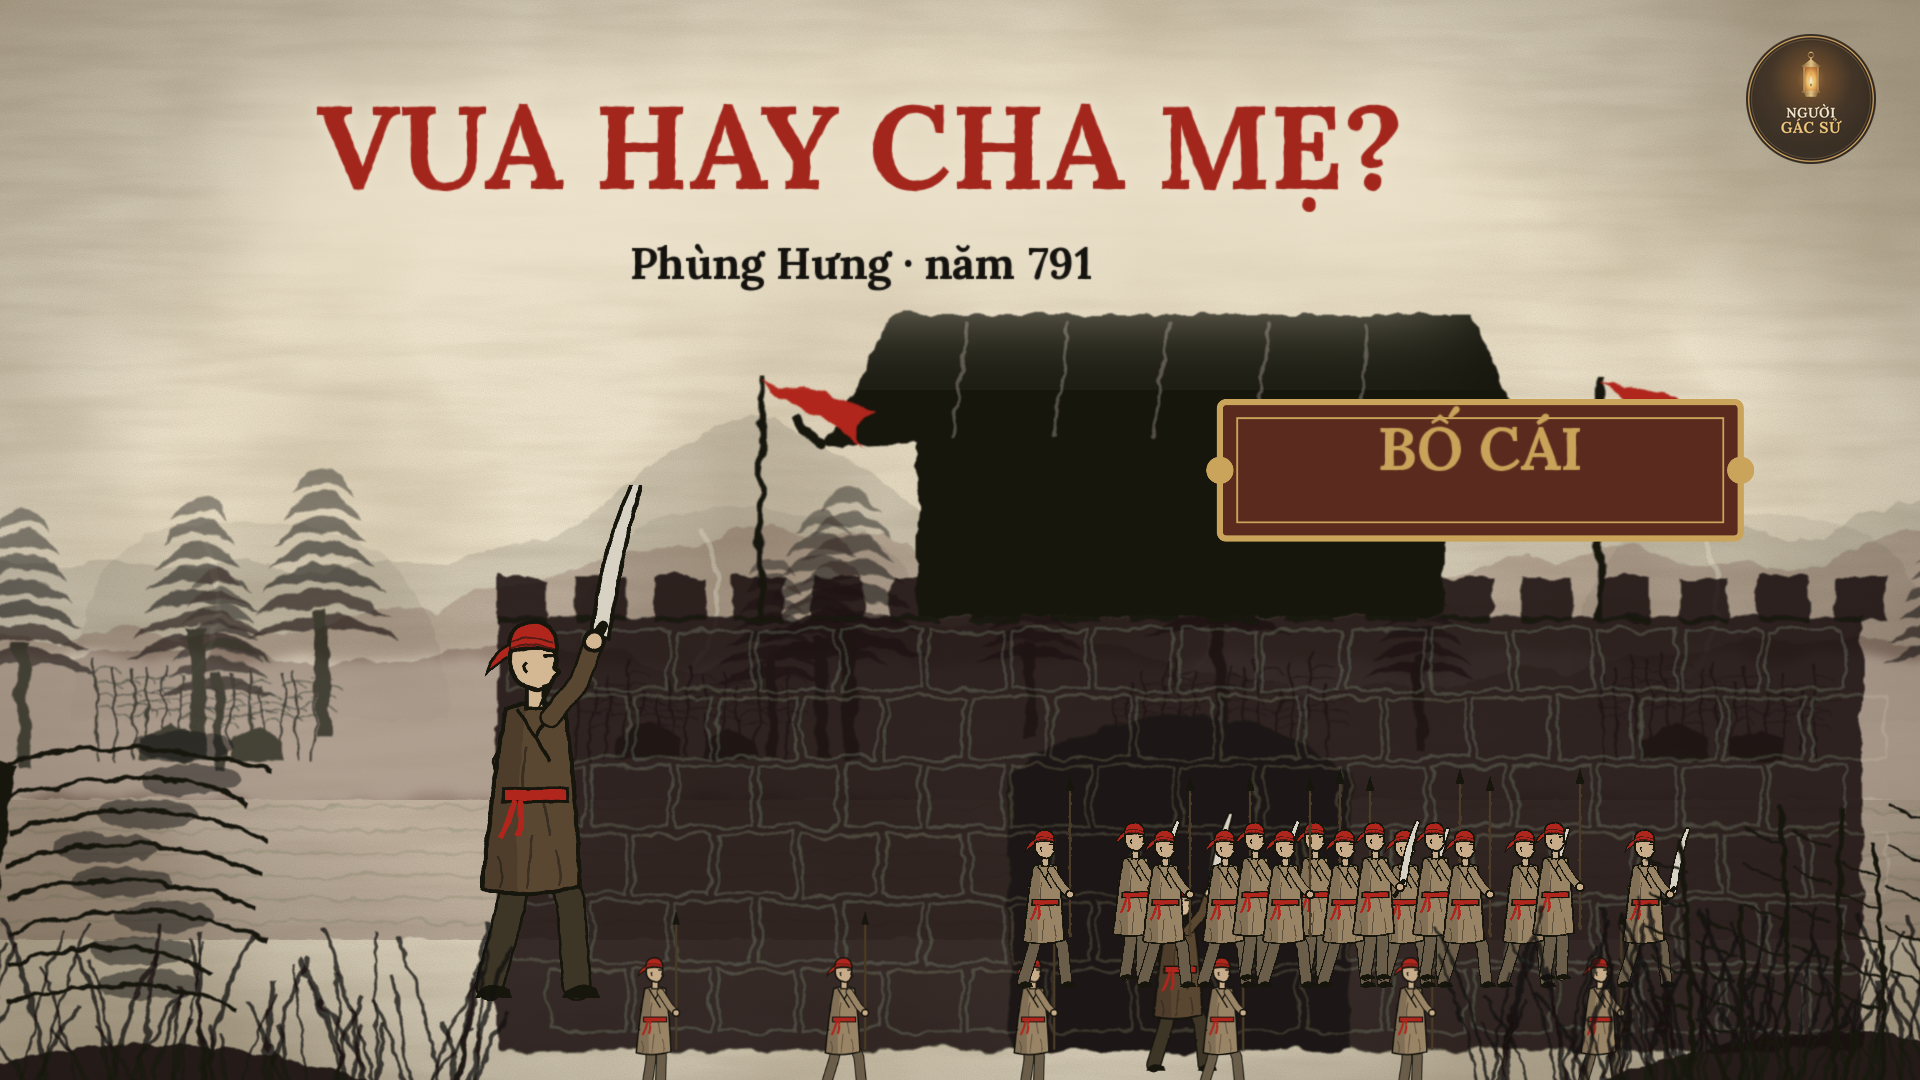
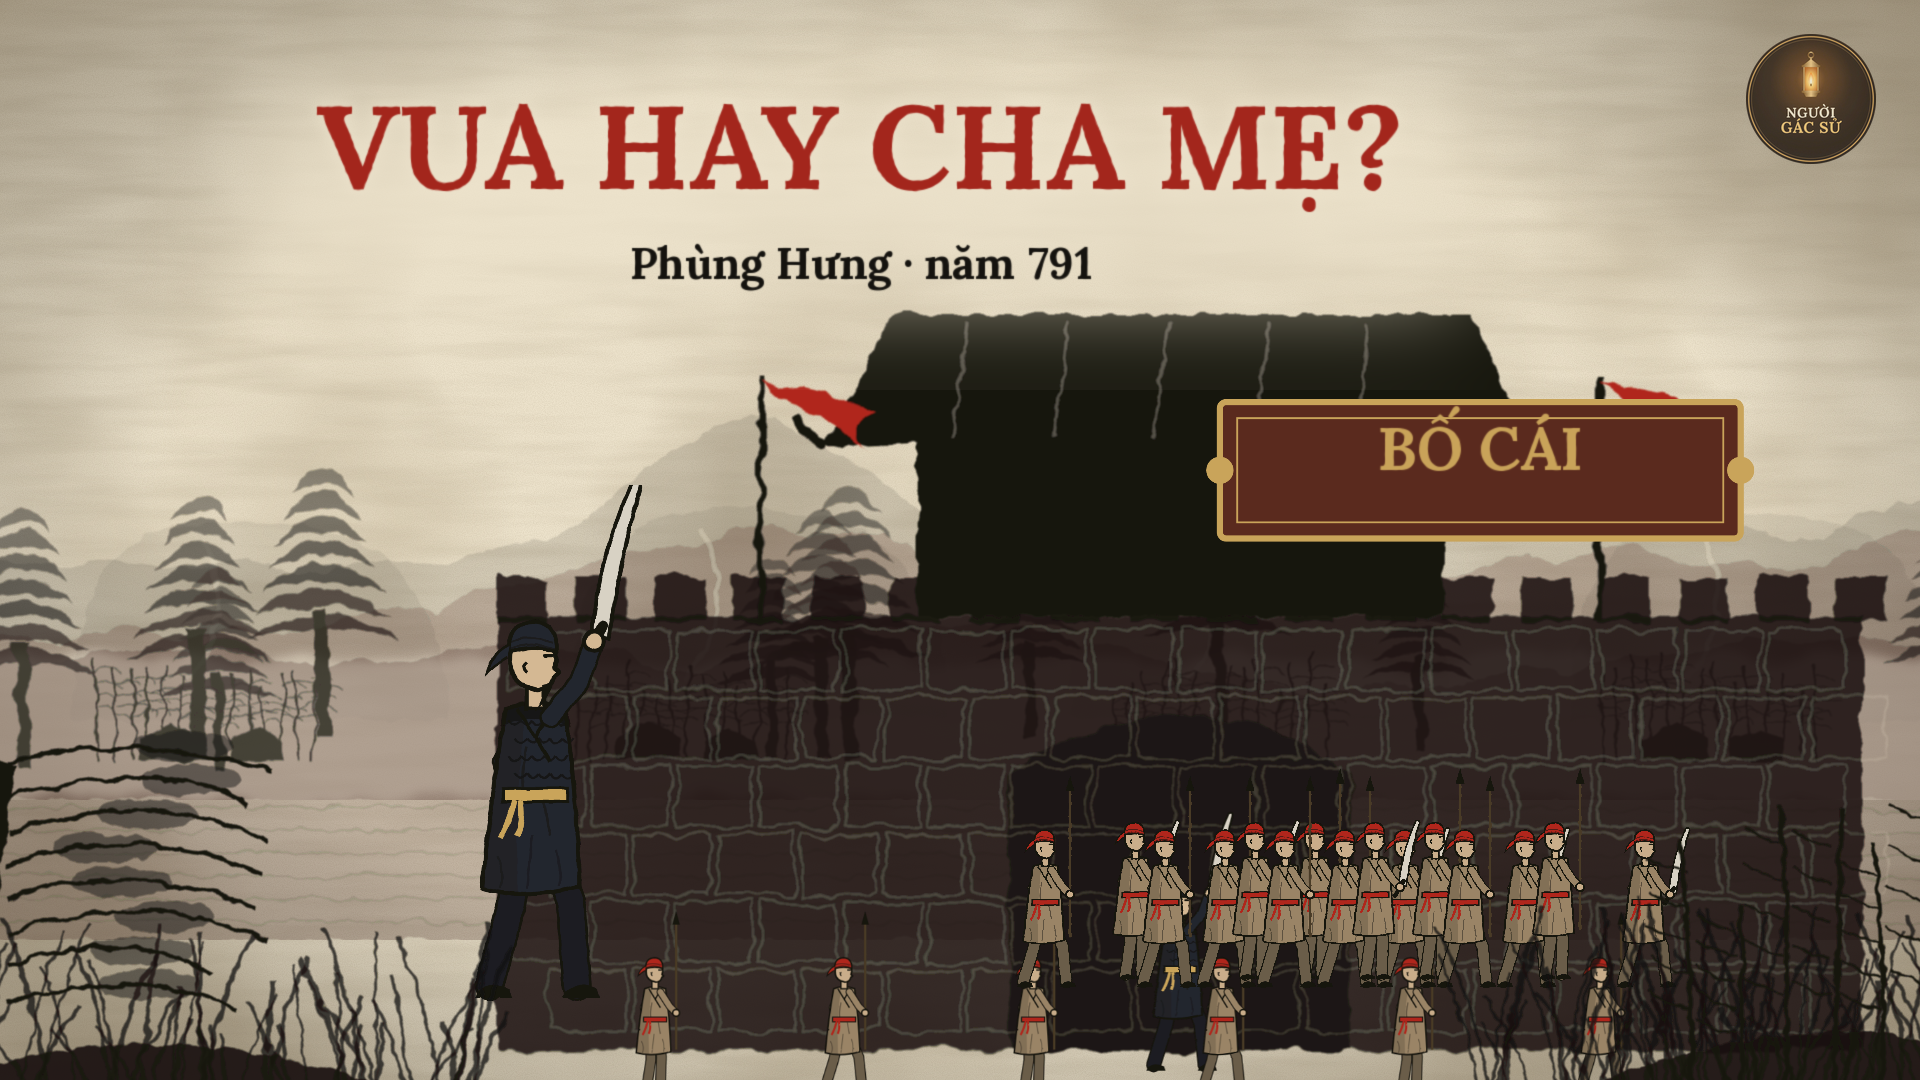
tm19: dựng lại theo giọng lần 3, sửa trang phục Phùng Hưng, tấm biển, cảnh thuyền [skip ci]
Claude-Session: https://claude.ai/code/session_019qmx8YiPWui2GSjFMsWHvU

Changed region(s): [[0.25, 0.5806, 0.3125, 0.9167], [0.5938, 0.8556, 0.625, 0.9778]]

diff --git a/phim_ban_do/thuymac/assets.html b/phim_ban_do/thuymac/assets.html
@@ -1892,12 +1892,12 @@ function trau19(g,x,y,s,o={}){const k=el(g,'g',{transform:`translate(${x},${y}) 
  el(k,'path',{d:'M84 -104 Q118 -110 126 -88 Q130 -70 112 -64 Q96 -62 88 -76Z',fill:'#3d3a35',stroke:INK,'stroke-width':4});
  el(k,'path',{d:'M100 -104 Q86 -136 56 -136 Q84 -128 92 -104 M112 -104 Q140 -130 168 -118 Q140 -116 120 -100',fill:'#d8d2c4',stroke:INK,'stroke-width':3});
  el(k,'circle',{cx:112,cy:-90,r:3,fill:PAPER});el(k,'path',{d:'M-86 -90 q-18 10 -14 34',stroke:INK,'stroke-width':4,fill:'none'});return k}
-const P19={ph:{da:'#d4b893',ao:'#5a4632',quan:'#3e3528',mu:'khan',khan:'#b0281c',dai:'#b0281c',rau:1,vk:'dao'},
- hai:{da:'#d9bf9c',ao:'#7a6a50',quan:'#4e4436',mu:'khan',khan:'#b0281c',dai:'#b0281c',vk:'giao'},
+const P19={ph:{da:'#d4b893',ao:'#23262e',quan:'#1e1e22',mu:'khan',khan:'#23262e',dai:'#c9a45a',giap:1,rau:1,vk:'dao'},
+ hai:{da:'#d9bf9c',ao:'#4a3d30',quan:'#2e2820',mu:'khan',khan:'#2e2820',dai:'#c9a45a',vk:'giao'},
  han:{da:'#dcc6a6',ao:'#a59a86',quan:'#6b6152',mu:'',dai:'#6b5d48',taytruoc:[[10,-190],[34,-176],[54,-186]]},
  cao:{da:'#e0cdb0',ao:'#2b4a72',quan:'#2b2f36',mu:'quan',dai:'#c9a45a',rau:1,taytruoc:[[10,-190],[22,-160],[30,-136]]},
  xuong:{da:'#e0cdb0',ao:'#3c5a3c',quan:'#2b2f36',mu:'quan',dai:'#c9a45a',rau:1,taytruoc:[[10,-190],[30,-168],[48,-170]]},
- an:{da:'#dcc3a0',ao:'#8a7356',quan:'#5a4c3a',mu:'khan',khan:'#b0281c',dai:'#b0281c'},
+ an:{da:'#dcc3a0',ao:'#6e2a22',quan:'#2e2820',mu:'khan',khan:'#23262e',dai:'#c9a45a'},
  dan:{da:'#d6bd98',ao:'#9a8a70',quan:'#6b5d48',mu:'khan',khan:'#7a6a50',dai:'#5a4c3a',taytruoc:[[10,-190],[26,-162],[36,-140]]},
  ta:{da:'#c9ad8a',ao:'#9a8466',quan:'#6b5d48',mu:'khan',khan:'#b0281c',dai:'#b0281c',vk:'giao'},
  duong:{da:'#dcc6a6',ao:'#2b4a72',quan:'#3a3f48',mu:'tru',mucol:'#3a3f48',tua:'#2b4a72',giap:1,khien:'#2b4a72',vk:'giao',rau:1}};
@@ -2001,8 +2001,8 @@ t19x_thocung(){const s=setup(2400,800);seed=1943;const g=el(s,'g',{filter:'url(#
  for(let i=0;i<5;i++)el(g,'line',{x1:1140+i*30,y1:600,x2:1140+i*30,y2:540,stroke:INK,'stroke-width':2});for(let i=0;i<4;i++)tree(g,300+i*160+(i>1?1250:0),690,1.3);
  const f=fr19(s);for(let i=0;i<6;i++)n19(f,700+i*200,770,.45,'dan',{flip:i>2?1:0,st:0,taytruoc:[[10,-190],[22,-176],[30,-196]]})},
 t19x_trieuxuong(){const s=setup(2400,800);seed=1944;const g=el(s,'g',{filter:'url(#ink)'});
- el(g,'path',{d:'M0 700 Q1200 660 2400 700 L2400 800 L0 800Z',fill:INK,opacity:.3});for(let i=0;i<3;i++)boatSmall2(el(g,'g',{transform:`translate(${300+i*420} ${560+i*20}) scale(1.4)`}));
- const f=fr19(s);n19(f,1500,760,.75,'xuong',{});for(let i=0;i<4;i++)n19(f,1700+i*130,770,.5,'duong',{st:0});n19(f,1300,770,.5,'duong',{vk:'',flip:1,taytruoc:[[10,-190],[30,-176],[50,-180]]})},
+ el(g,'path',{d:'M0 700 Q1200 660 2400 700 L2400 800 L0 800Z',fill:INK,opacity:.3});for(let i=0;i<3;i++)boatSmall2(el(g,'g',{transform:`translate(${120+i*360} ${560+i*20}) scale(1.15)`}));
+ for(let r=0;r<4;r++)el(g,'path',{d:`M0 ${640+r*16} Q600 ${632+r*16} 1250 ${644+r*16}`,stroke:INK,'stroke-width':2,fill:'none',opacity:.2})},
 t19x_hang(){const s=setup(2400,800);seed=1945;const g=el(s,'g',{filter:'url(#ink)'});
  for(let i=0;i<10;i++)el(g,'line',{x1:1000+i*24,y1:760,x2:1060+i*24,y2:700,stroke:INK,'stroke-width':5});
  const f=fr19(s);n19(f,800,760,.7,'an',{vk:''});for(let i=0;i<5;i++)n19(f,300+i*90,770,.45,'ta',{vk:'',st:0});

diff --git a/phim_ban_do/thuymac/dai_tm19.py b/phim_ban_do/thuymac/dai_tm19.py
@@ -88,7 +88,7 @@ def nv(cv,c,name,x,y,t,s=.7,r=0,o=1.0,flip=False):
     put(cv,c,Af(name) if flip else name,x,y-2*math.sin(t*1.6+x),s=s*GS if y>700 else s,ay=1,o=o,r=r+.6*math.sin(t*1.1+x),scale_px=asc(name))
 def bien(cv,x,y,t,chu='',u=1.0,o=1.0,s=.9,phu=''):
     """hình ảnh lặp lại: tấm biển gỗ thờ Bố Cái"""
-    put(cv,C0,'t19_bien',x,y,s=s,o=o,r=.4*math.sin(t*.6))
+    put(cv,C0,'t19_bien',x,y,s=s,o=o)
     if FREEZE: return
     if chu: put_screen(cv,wipe(text(chu,int(84*s/.9*min(1,9/max(len(chu),1))),GOLDC,700),u,0,.25,seed=19),x,y-6,o)
     if phu: put_screen(cv,text(phu,int(34*s/.9),RED,700),x,y+int(140*s/.9),o*u)
@@ -376,9 +376,9 @@ def S_19(cv,t):
     c=kc(t,[(a,(1200,560,1.05)),(b,(900,560,1.0))])
     ngoai(cv,c,t,g=880,seed=20,mist=.5)
     put(cv,c,'t19x_trieuxuong',960,560,s=1.0)
-    di(cv,c,'t19n_xuong',2300,885,1450,885,t,a,q+1,s=.72,bob=2,f=3,lat=True)
-    for i in range(2): di(cv,c,'t19n_1duong',2600+i*180,885,1700+i*150,885,t,a+i*.3,q+1,s=.6,bob=3,f=4,ph=i,lat=True)
-    if t>q: di(cv,c,'t19n_dan2',1300,890,400,890,t,q,b+1,s=.55,bob=3,f=4.4,lat=True)
+    di(cv,c,'t19n_xuong',2300,885,1500,885,t,a,q+1,s=.72,bob=2,f=3,lat=True)
+    for i in range(2): di(cv,c,'t19n_1duong',2600+i*180,885,1720+i*170,885,t,a+i*.3,q+1,s=.6,bob=3,f=4,ph=i,lat=True)
+    di(cv,c,'t19n_duong',2900,890,2150,890,t,a+.6,b,s=.5,bob=3,f=4.2,lat=True)
     truoc(cv,c,t)
     lb(cv,C0,'nhà Đường không đem quân sang đánh',960,150,t,a+.3,q-.2,col=INK,sz=42)
     lb(cv,C0,'sai người đến thuyết phục Phùng An',960,230,t,q+.2,b,col=DUONGC,sz=40)

diff --git a/phim_ban_do/thuymac/do_giong.py b/phim_ban_do/thuymac/do_giong.py
@@ -1,0 +1,15 @@
+import subprocess,numpy as np,sys
+def load(p):
+    a=subprocess.run(['ffmpeg','-v','error','-i',p,'-ac','1','-ar','16000','-f','s16le','-'],capture_output=True).stdout
+    return np.frombuffer(a,np.int16).astype(np.float32)/32768
+def f0(x,sr=16000):
+    fs=[];n=640
+    for i in range(0,len(x)-n,n):
+        s=x[i:i+n]
+        if np.sqrt((s**2).mean())<.03: continue
+        s=s-s.mean();c=np.correlate(s,s,'full')[n-1:];lo,hi=sr//300,sr//60;k=lo+np.argmax(c[lo:hi])
+        if c[k]>.4*c[0]: fs.append(sr/k)
+    return np.array(fs)
+for p in sys.argv[1:]:
+    x=load(p);F=f0(x);fr=np.sqrt(np.convolve(x**2,np.ones(1600)/1600,'valid')[::400])
+    print(p.split('/')[-1],f'{len(x)/16000:.1f}s',f'cao độ {np.median(F):.0f} Hz, dao động {np.percentile(F,90)-np.percentile(F,10):.0f}',f'lặng {(fr<.01).mean()*100:.0f}%')

diff --git a/ke-hoach/tm19-phung-hung-dang-tai.md b/ke-hoach/tm19-phung-hung-dang-tai.md
@@ -1,6 +1,6 @@
 # Phùng Hưng, năm 791 (thủy mặc tm19): tiêu đề, mô tả, bình luận ghim, ảnh bìa, bản dọc
 
-Video: `tm19_thuymac_dai.mp4` (16:9, khoảng 3 phút 22 giây, giọng Charon đọc cả kịch bản một lần, kịch bản bản 1, 25 cảnh, người vẽ kiểu mới). Bản dọc: `tm19_thuymac_doc.mp4` (9:16, khoảng 69 giây, cắt từ đoạn 1–3, 9–12, 16–17 của bản dài, kết bằng lời mời xem bản đầy đủ). Ảnh bìa: `assets/bia/TM19/bia_tm19.png` và `bia_tm19_youtube.jpg`, chữ lớn "VUA HAY CHA MẸ?", có logo đúng cỡ và vị trí.
+Video: `tm19_thuymac_dai.mp4` (16:9, khoảng 3 phút 25 giây, giọng Charon đọc cả kịch bản một lần (lần đọc thứ 3), kịch bản bản 1, 25 cảnh, người vẽ kiểu mới). Bản dọc: `tm19_thuymac_doc.mp4` (9:16, khoảng 69 giây, cắt từ đoạn 1–3, 9–12, 16–17 của bản dài, kết bằng lời mời xem bản đầy đủ). Ảnh bìa: `assets/bia/TM19/bia_tm19.png` và `bia_tm19_youtube.jpg`, chữ lớn "VUA HAY CHA MẸ?", có logo đúng cỡ và vị trí.
 
 ## Tiêu đề YouTube
 **Chọn:** Người dân không gọi ông là vua, họ gọi ông là cha mẹ | Phùng Hưng và danh hiệu Bố Cái Đại Vương
@@ -19,5 +19,6 @@ Toàn thư và Cương mục chép Phùng Hưng vào phủ thành chưa bao lâu
 Chữ lớn trên cùng: "VÌ SAO GỌI ÔNG LÀ CHA MẸ?", "ĐÁNH MÃI KHÔNG THẮNG", "NĂM 791, VÂY PHỦ THÀNH", "BỐ CÁI ĐẠI VƯƠNG". Màn cuối: "Xem bản đầy đủ trên kênh Người Gác Sử". Giọng và nhạc cắt nguyên từ bản dài, không đọc giọng mới.
 
 ## Ghi chú kiểm
-- Giọng: so lời đọc với kịch bản bằng nhận dạng giọng, mọi câu đều có trong lời đọc; các chỗ lệch chỉ là máy nghe nhầm (Phùng thành "phụng", số chuyển thành chữ số). Chỗ máy không bắt được "ra sao" (giây 80, đoạn 11) có tiếng nói khi đo âm lượng, nên giữ bản đọc; chủ kênh nghe lại giây 1:20 nếu muốn chắc.
+- Giọng: lần 1 trầm, chậm, phẳng hơn tm18 (cao độ 119 Hz, độ lên xuống 80 Hz, tm18 là 123 và 91), chủ kênh cho đọc lại. Lần 2 đọc sai "năm 791" thành "779" ở đoạn 20, đọc lại lần nữa. Lần 3 (dùng): cao độ 116 Hz, độ lên xuống 85 Hz; nhận dạng giọng cho thấy đủ mọi câu, hai lần "năm 791" đều đúng, chỗ lệch chỉ là máy nghe nhầm (Phùng thành "phụng", số thành chữ số).
+- Hình (sửa theo góp ý 21/11): Phùng Hưng mặc áo giáp sẫm, khăn đen, đai vàng; Phùng Hãi áo nâu sẫm, khăn sẫm; Phùng An áo đỏ thẫm, khăn đen; lính vẫn khăn đỏ áo vải sáng, nên không còn giống nhau chỉ khác cỡ. Tấm biển "Bố Cái" không lắc nữa để chữ luôn nằm giữa. Cảnh Triệu Xương: thuyền nằm riêng bên trái, người đứng bên phải, bỏ hình Triệu Xương bị vẽ trùng hai lần.
 - Bộ kiểm cảnh: 25 cảnh, 17 tranh riêng, không cảnh tĩnh, không khung trùng, không tranh lặp, không hình mượn.

diff --git a/quy-tac/thuy-mac.md b/quy-tac/thuy-mac.md
@@ -306,6 +306,9 @@ Một số tập mơ hồ với người không nhớ sử. Mỗi video phải t
 10. Giao cho chủ kênh. Sau khi đăng, ghi số liệu giữ chân người xem.
 
 ## 7. Ghi chú kỹ thuật cho Claude
+- **So giọng với tập trước trước khi dựng (chủ kênh nhắc 21/11/2026, tm19):** cùng giọng Charon, cùng mô hình và câu chỉ dẫn, Gemini vẫn có lần đọc trầm, chậm, phẳng. Sau mỗi lần đọc, ngoài nhận dạng giọng để kiểm đủ chữ, chạy `python3 phim_ban_do/thuymac/do_giong.py <mp3 tập trước> <mp3 mới>` (cao độ, độ lên xuống, khoảng lặng). Lệch rõ (cao độ thấp hơn từ 4 Hz hoặc độ lên xuống thấp hơn khoảng 10%) thì báo chủ kênh trước khi dựng. Kiểm riêng từng năm trong lời đọc: lần đọc 2 của tm19 đọc "791" thành "779".
+- **Nhân vật chính khác hẳn lính (chủ kênh nhắc 21/11/2026, tm19):** không dùng cùng màu khăn, áo, đai của lính cho nhân vật có tên rồi chỉ vẽ to hơn. Nhân vật chính đổi ít nhất hai thứ trong khăn, áo, đai hoặc thêm giáp (tm19: Phùng Hưng giáp sẫm, khăn đen, đai vàng; lính khăn đỏ, áo vải sáng). Tranh đã có sẵn một nhân vật thì cảnh đó không thêm hình rời cùng nhân vật (tm19 cảnh Triệu Xương từng có hai Triệu Xương). Người đi trên bờ không đi ngang qua thuyền vẽ trong tranh.
+- **Biển, cuộn sử có chữ đè lên thì không xoay, không lắc**, vì chữ đặt riêng sẽ lệch khỏi biển.
 - **Nhánh làm việc dùng sparse checkout.** Khi thêm file mới (kịch bản, giọng, mã), chạy `git sparse-checkout add '<đường dẫn>'` cho đúng mẫu đường dẫn. Nếu không, lần `sparse-checkout add` sau sẽ xóa các file ấy khỏi thư mục làm việc. Ở tm2, `tm2_full.json` từng biến mất vì lỗi này.
 - **Cách dựng cho hấp dẫn (chủ kênh chốt 20/11/2026 sau bản thử mở đầu tm17; áp dụng mọi video từ nay, mẫu `dai_tm17.py`):**
   1. **Hình ảnh lặp lại theo điểm nhấn:** chọn một hình gắn với điểm nhấn của nhân vật chính (tm17: khí độc xanh xám `t17_spr_doc`, hàm `khidoc`) và chỉ cho nó xuất hiện ở các lúc lời kể nhắc tới (mở đầu, giữa, cuối), để người xem tự nối. Màu của hình này không dùng cho việc khác.
